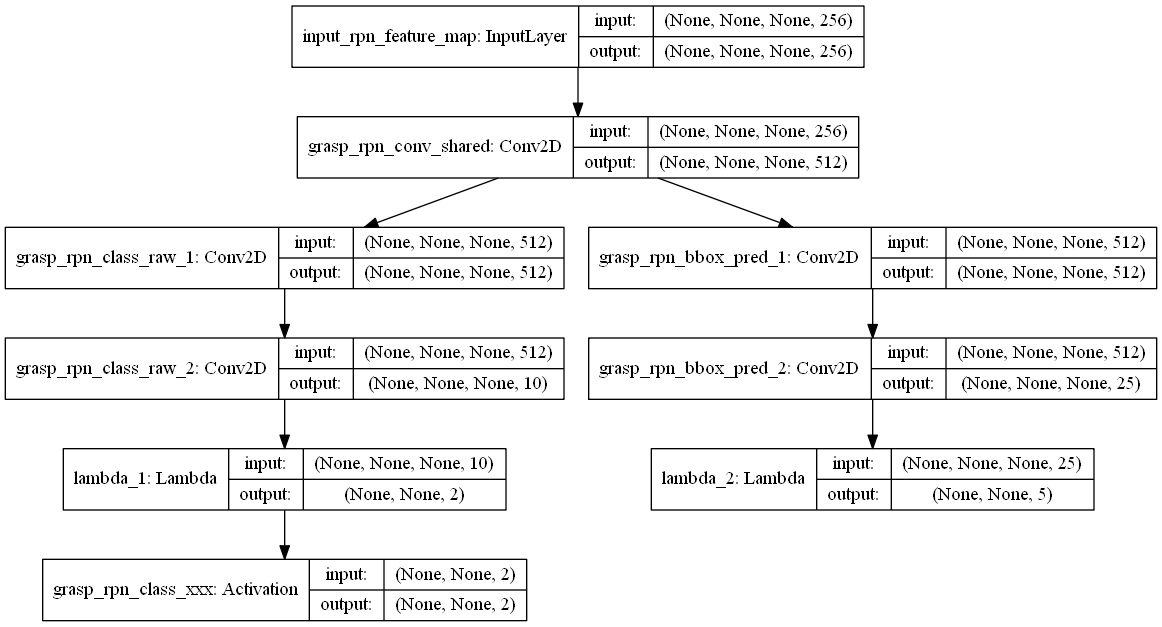
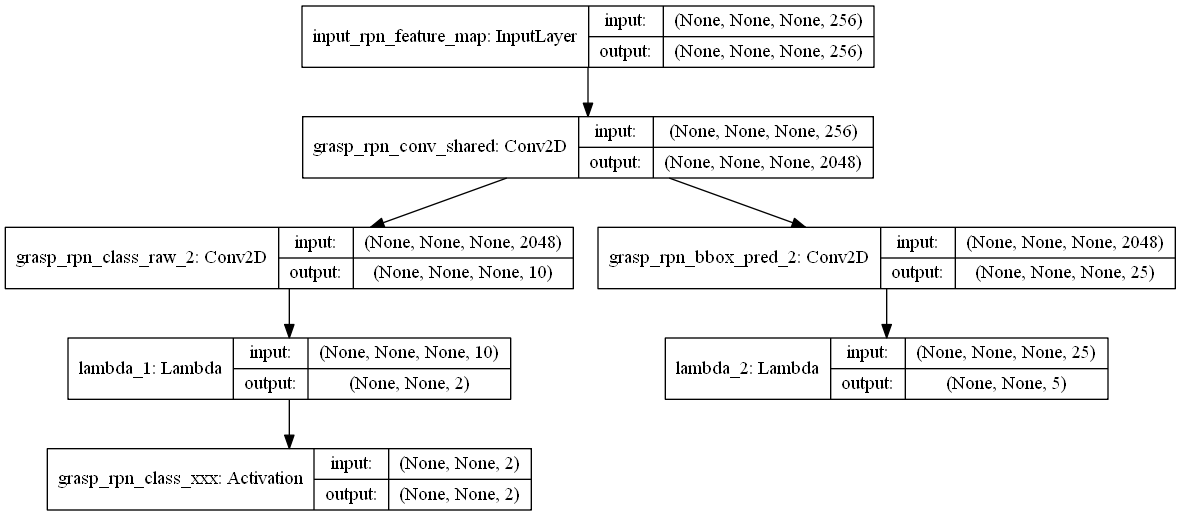
July 2, 2020 - Commit before rewriting OHEM logic

Changed region(s): [[0.0, 0.0, 1.0, 0.9922]]

diff --git a/mrcnn/model.py b/mrcnn/model.py
@@ -1088,16 +1088,16 @@ def grasping_rpn_graph(feature_map, anchors_per_location, anchor_stride):
     # Shared convolutional base of the RPN
 
     # 512 nodes -> 1024 nodes
-    shared = KL.Conv2D(512, (3, 3), padding='same', activation='relu',
+    shared = KL.Conv2D(2048, (3, 3), padding='same', activation='relu',
                        strides=anchor_stride,
                        name='grasp_rpn_conv_shared')(feature_map)
 
-    classification_1 = KL.Conv2D(512, (3, 3), padding='same', activation='relu',
-                  strides=anchor_stride,
-                  name='grasp_rpn_class_raw_1')(shared)
+    # classification_1 = KL.Conv2D(512, (3, 3), padding='same', activation='relu',
+    #               strides=anchor_stride,
+    #               name='grasp_rpn_class_raw_1')(shared)
     # Anchor Score. [batch, height, width, anchors per location * 2].
     classification_2 = KL.Conv2D(2 * anchors_per_location, (1, 1), padding='valid',
-                  activation='linear', name='grasp_rpn_class_raw_2')(classification_1)
+                  activation='linear', name='grasp_rpn_class_raw_2')(shared)
 
     # Reshape to [batch, anchors, 2]
     rpn_class_logits = KL.Lambda(
@@ -1109,11 +1109,11 @@ def grasping_rpn_graph(feature_map, anchors_per_location, anchor_stride):
 
     # Bounding box refinement. [batch, H, W, anchors per location * depth]
     # where depth is [dx, dy, log(dw), log(dh), dtheta]
-    regression_1 = KL.Conv2D(512, (3, 3), padding='same', activation='relu',
-                       strides=anchor_stride,
-                       name='grasp_rpn_bbox_pred_1')(shared)
+    # regression_1 = KL.Conv2D(512, (3, 3), padding='same', activation='relu',
+    #                    strides=anchor_stride,
+    #                    name='grasp_rpn_bbox_pred_1')(shared)
     regression_2 = KL.Conv2D(anchors_per_location * 5, (1, 1), padding="valid",
-                  activation='linear', name='grasp_rpn_bbox_pred_2')(regression_1)
+                  activation='linear', name='grasp_rpn_bbox_pred_2')(shared)
 
     # Reshape to [batch, anchors, 5]
     rpn_bbox = KL.Lambda(lambda t: tf.reshape(t, [tf.shape(t)[0], -1, 5]))(regression_2)
@@ -3184,7 +3184,6 @@ class MaskRCNN():
             if name in self.keras_model.metrics_names:
                 continue
             layer = self.keras_model.get_layer(name)
-            self.keras_model.metrics_names.append(name)
             loss = (
                 tf.reduce_mean(layer.output, keepdims=True)
                 * self.config.LOSS_WEIGHTS.get(name, 1.))
@@ -3344,10 +3343,6 @@ class MaskRCNN():
                                         histogram_freq=0, write_graph=True, write_images=False),
             keras.callbacks.ModelCheckpoint(self.checkpoint_path,
                                             verbose=0, save_weights_only=True),
-            # tf.keras.callbacks.ReduceLROnPlateau(
-            #     monitor='val_rpn_loss', factor=0.1, patience=15, verbose=0, mode='auto',
-            #     min_delta=0.0001, cooldown=0, min_lr=0
-            # )
         ]
 
         # Add custom callbacks to the list

diff --git a/grasping_points.py b/grasping_points.py
@@ -53,9 +53,10 @@ class GraspingPointsConfig(Config):
     # RPN_TRAIN_ANCHORS_PER_IMAGE = 5000
     RPN_TRAIN_ANCHORS_PER_IMAGE = 2000
     RPN_OHEM_NUM_SAMPLES = 320
-    LEARNING_RATE = 0.003
+    LEARNING_RATE = 0.02
     LEARNING_MOMENTUM = 0.9
     NUM_AUGMENTATIONS = 5
+    WEIGHT_DECAY = 0.0001
     # NUM_AUGMENTATIONS = 5
 
 class InferenceConfig(GraspingPointsConfig):
@@ -625,7 +626,7 @@ tf.keras.utils.plot_model(
 # Load weights
 weights_path = MASKRCNN_MODEL_PATH
 # weights_path = os.path.join(MODEL_DIR, "mask_rcnn_grasping_points_0004.h5")
-# weights_path = os.path.join(MODEL_DIR, 'train_id#19',"mask_rcnn_grasping_points_0020.h5")
+# weights_path = os.path.join(MODEL_DIR, 'train_id#23',"mask_rcnn_grasping_points_0003.h5")
 # model.load_weights(weights_path, by_name=True)
 # print("Loading weights ", weights_path)
 model.load_weights(weights_path, by_name=True,
@@ -641,19 +642,13 @@ model.load_weights(weights_path, by_name=True,
 
 model.train(training_dataset, validating_dataset,
                learning_rate=config.LEARNING_RATE,
-               epochs=20,
+               epochs=10,
                layers="all",
                task=mode)
 
 model.train(training_dataset, validating_dataset,
                learning_rate=config.LEARNING_RATE/10,
-               epochs=30,
-               layers="all",
-               task=mode)
-
-model.train(training_dataset, validating_dataset,
-               learning_rate=config.LEARNING_RATE,
-               epochs=40,
+               epochs=15,
                layers="all",
                task=mode)
 
